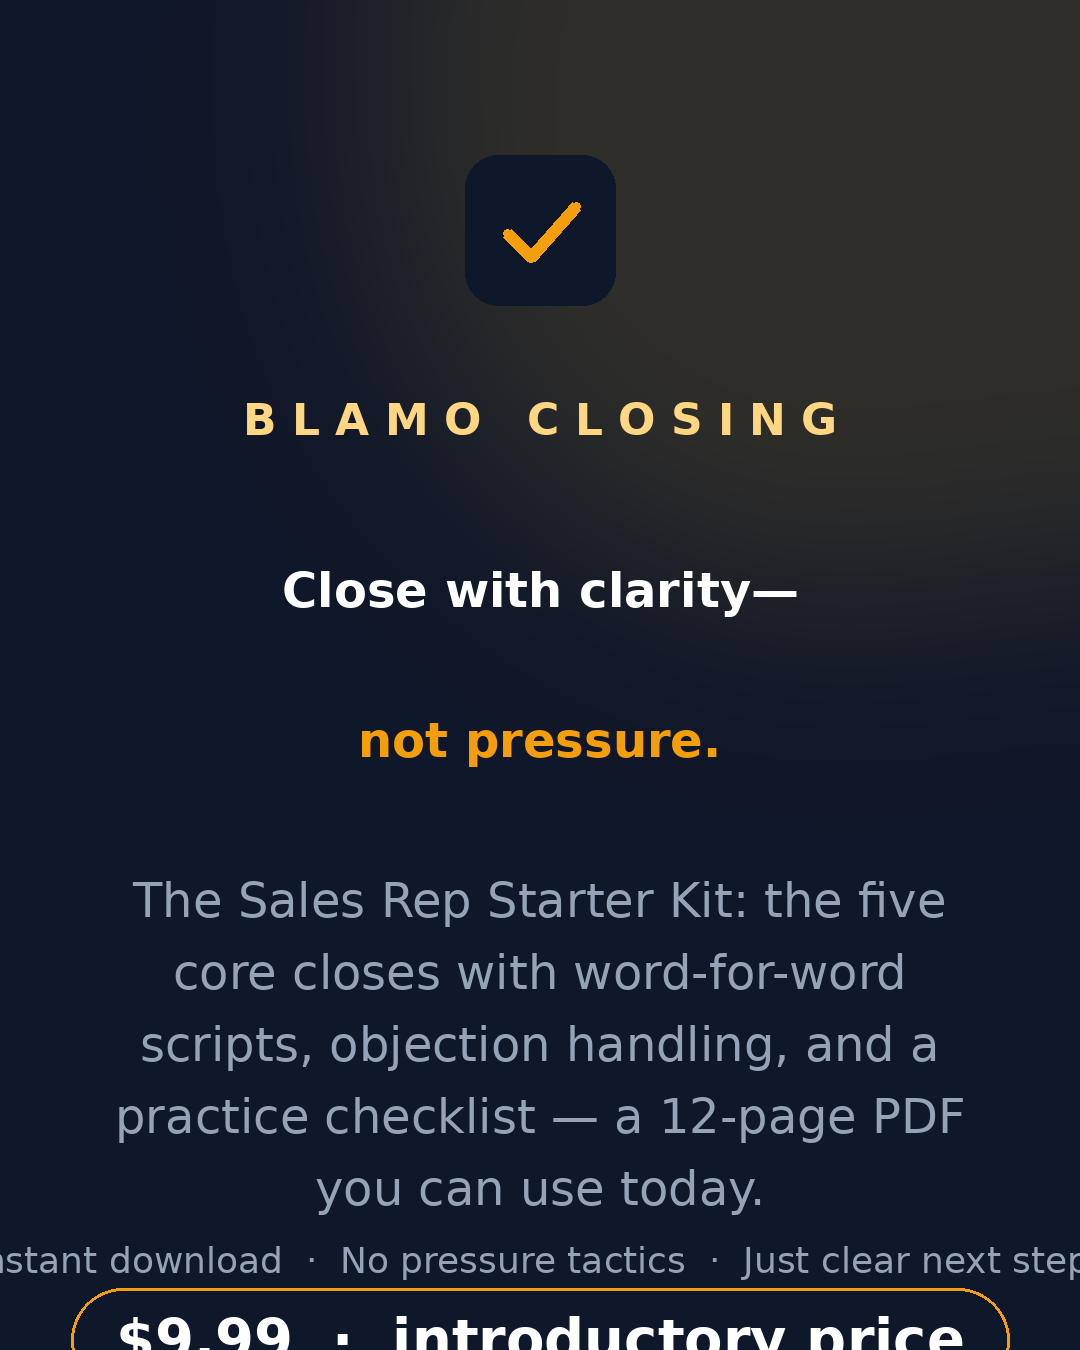
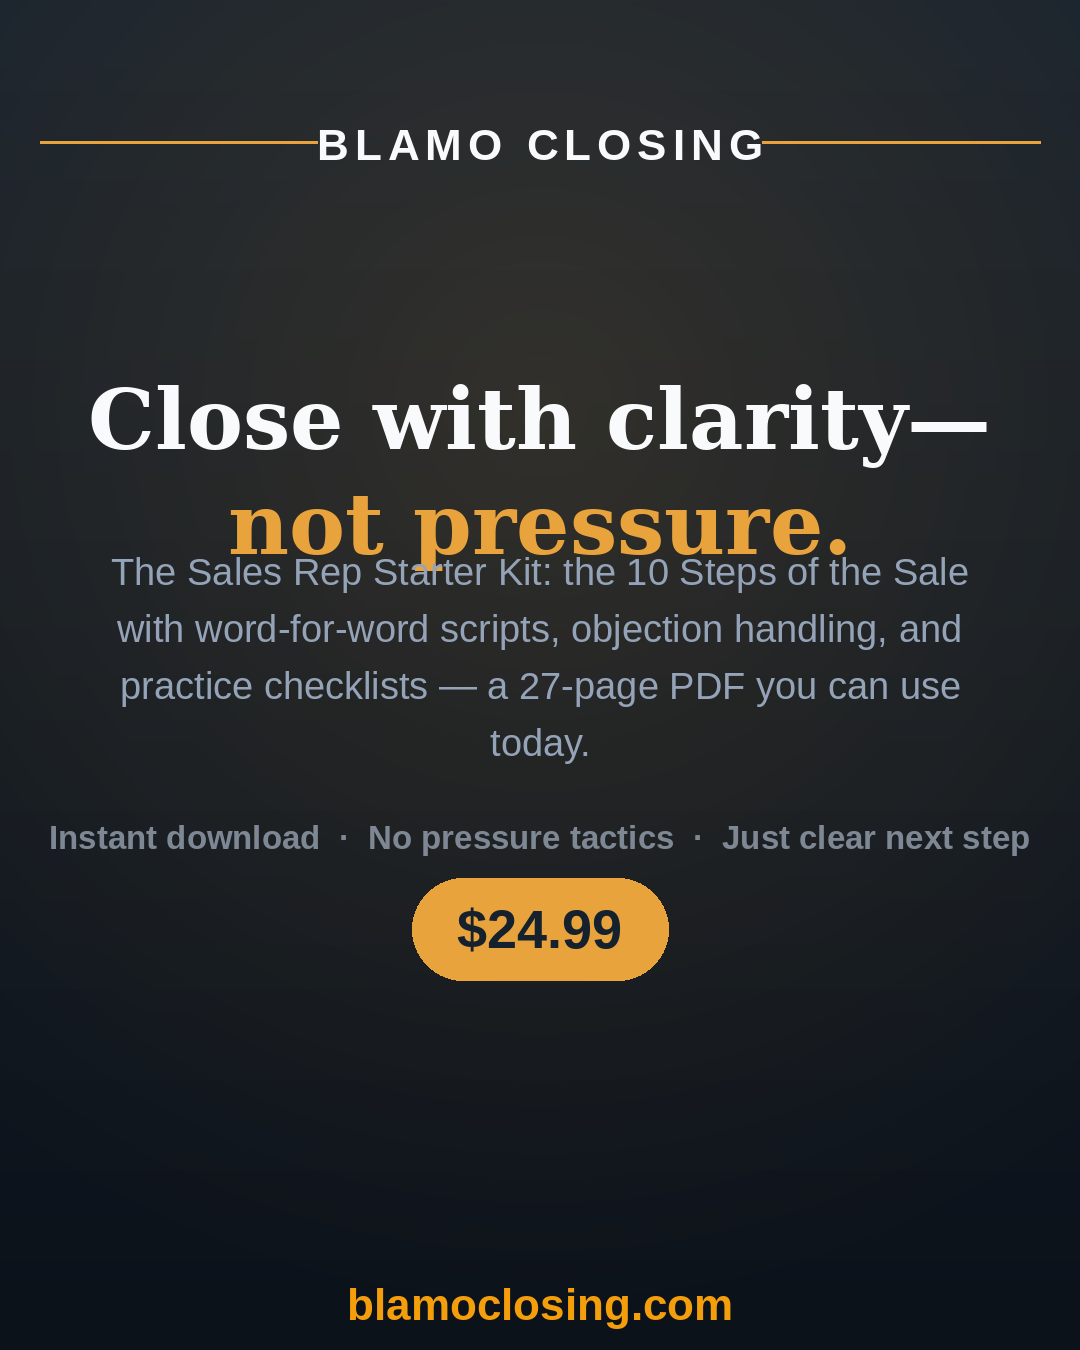
Fix Starter Kit pricing in all site images to $24.99
- Swap 7 cover thumbnails to the regenerated set (starter-kit $24.99, all six add-ons $6.99) - old badges read $9.99/$2.99
- Rebuild the 3 marketing ads (portrait/square/tiktok): $24.99 badge, updated Starter Kit copy (27-page 10 Steps packet), blamoclosing.com URL (old ads said "$9.99 introductory price" / 12-page five-closes)
- Replace Starter Kit PDF with re-rendered 27-page packet (cover reads plain $24.99)
- product-downloads.ts comment: $2.99 -> $6.99

diff --git a/src/lib/product-downloads.ts b/src/lib/product-downloads.ts
@@ -11,7 +11,7 @@
 // Files live in /private (outside Vite's public dir) and are streamed only
 // through the code-checked endpoint (see server-assets/download-handler.ts).
 //
-// To add a product (e.g. a $2.99 objection playbook):
+// To add a product (e.g. a $6.99 objection playbook):
 //   1. Add one entry below (slug, code, file, name, kind, mime).
 //   2. Drop the PDF/MP4 into /private.
 //   3. Point the product's buy button at /thanks?product=<slug> and add a
